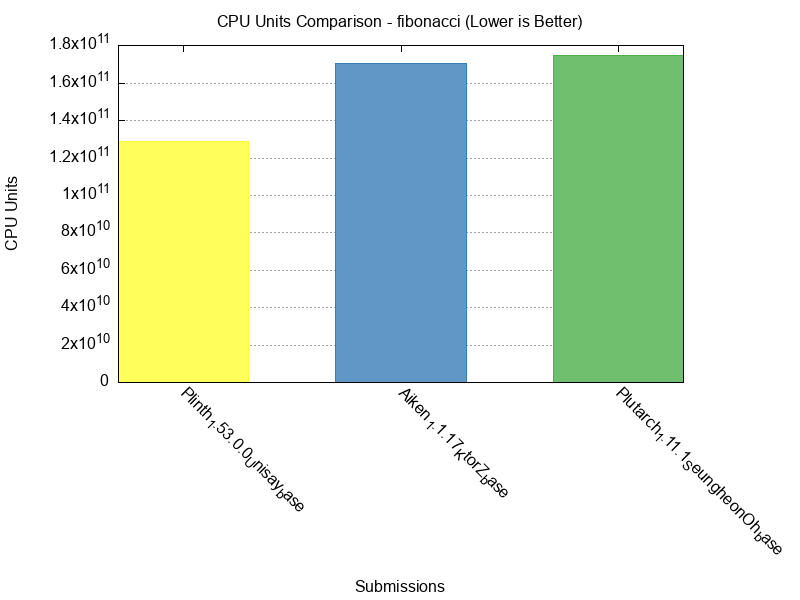
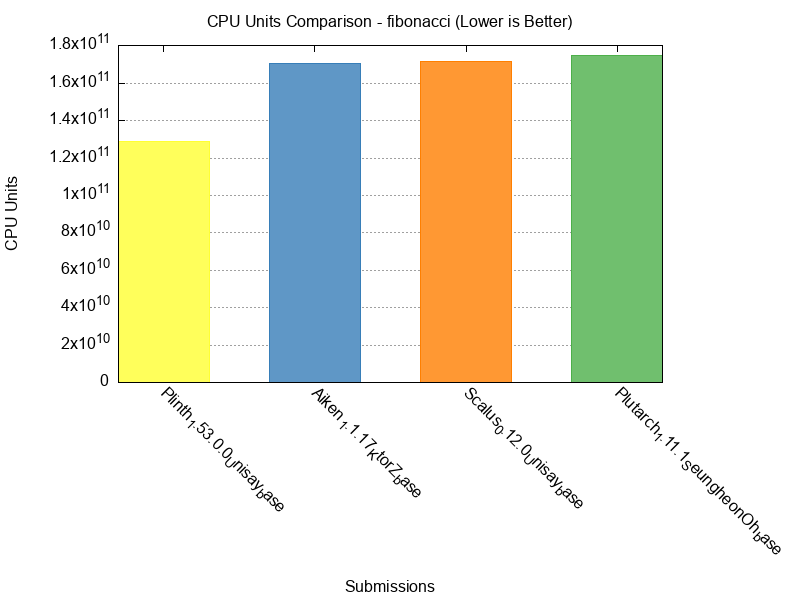
docs(reports): update report indices with Scalus submissions
Update HTML report indices to reflect the newly added Scalus submissions for the fibonacci benchmark. The base mode now shows 4 submissions (previously 3) and open mode shows 1 submission (previously 0).

Also update generation timestamps and cross-references across all report pages to maintain consistency.

diff --git a/report/base/index.html b/report/base/index.html
@@ -294,7 +294,7 @@
     
 
     <div class="timestamp">
-        Generated on: 2025-10-06 17:39:48 CEST
+        Generated on: 2025-10-07 15:24:50 CEST
     </div>
     
     <!-- Benchmark Summary Table -->
@@ -392,7 +392,7 @@
                     </div>
                     <div class="count">
                         
-                            (3 submissions)
+                            (5 submissions)
                         
                     </div>
                 </div>
@@ -441,13 +441,13 @@
                                 <td>2025-09-12</td>
                                 <td class="numeric">
                                     <span class="tooltip">
-                                        <span class="cpu-value best-value">129.09B</span>
+                                        <span class="cpu-value">129.09B</span>
                                         <span class="tooltiptext">129093086599</span>
                                     </span>
                                 </td>
                                 <td class="numeric">
                                     <span class="tooltip">
-                                        <span class="memory-value best-value">481.52M</span>
+                                        <span class="memory-value">481.52M</span>
                                         <span class="tooltiptext">481520743</span>
                                     </span>
                                 </td>
@@ -474,6 +474,48 @@
                                 </td>
                                 <td class="numeric script-value">47</td>
                                 <td class="numeric term-value">41</td>
+                            </tr>
+                            
+                            <tr data-cpu="171532323770" data-memory="685972690" data-script="77" data-term="77">
+                                <td>Scalus</td>
+                                <td>0.12.0</td>
+                                <td>Unisay</td>
+                                <td>2025-10-07</td>
+                                <td class="numeric">
+                                    <span class="tooltip">
+                                        <span class="cpu-value">171.53B</span>
+                                        <span class="tooltiptext">171532323770</span>
+                                    </span>
+                                </td>
+                                <td class="numeric">
+                                    <span class="tooltip">
+                                        <span class="memory-value">685.97M</span>
+                                        <span class="tooltiptext">685972690</span>
+                                    </span>
+                                </td>
+                                <td class="numeric script-value">77</td>
+                                <td class="numeric term-value">77</td>
+                            </tr>
+                            
+                            <tr data-cpu="81367848" data-memory="345184" data-script="98" data-term="101">
+                                <td>Scalus</td>
+                                <td>0.12.0</td>
+                                <td>Unisay</td>
+                                <td>2025-10-07</td>
+                                <td class="numeric">
+                                    <span class="tooltip">
+                                        <span class="cpu-value best-value">81.37M</span>
+                                        <span class="tooltiptext">81367848</span>
+                                    </span>
+                                </td>
+                                <td class="numeric">
+                                    <span class="tooltip">
+                                        <span class="memory-value best-value">345.18K</span>
+                                        <span class="tooltiptext">345184</span>
+                                    </span>
+                                </td>
+                                <td class="numeric script-value">98</td>
+                                <td class="numeric term-value">101</td>
                             </tr>
                             
                         </tbody>

diff --git a/report/open/index.html b/report/open/index.html
@@ -294,7 +294,7 @@
     
 
     <div class="timestamp">
-        Generated on: 2025-10-06 17:39:55 CEST
+        Generated on: 2025-10-07 15:25:02 CEST
     </div>
     
     <!-- Benchmark Summary Table -->
@@ -392,7 +392,7 @@
                     </div>
                     <div class="count">
                         
-                            (3 submissions)
+                            (5 submissions)
                         
                     </div>
                 </div>
@@ -441,13 +441,13 @@
                                 <td>2025-09-12</td>
                                 <td class="numeric">
                                     <span class="tooltip">
-                                        <span class="cpu-value best-value">129.09B</span>
+                                        <span class="cpu-value">129.09B</span>
                                         <span class="tooltiptext">129093086599</span>
                                     </span>
                                 </td>
                                 <td class="numeric">
                                     <span class="tooltip">
-                                        <span class="memory-value best-value">481.52M</span>
+                                        <span class="memory-value">481.52M</span>
                                         <span class="tooltiptext">481520743</span>
                                     </span>
                                 </td>
@@ -474,6 +474,48 @@
                                 </td>
                                 <td class="numeric script-value">47</td>
                                 <td class="numeric term-value">41</td>
+                            </tr>
+                            
+                            <tr data-cpu="171532323770" data-memory="685972690" data-script="77" data-term="77">
+                                <td>Scalus</td>
+                                <td>0.12.0</td>
+                                <td>Unisay</td>
+                                <td>2025-10-07</td>
+                                <td class="numeric">
+                                    <span class="tooltip">
+                                        <span class="cpu-value">171.53B</span>
+                                        <span class="tooltiptext">171532323770</span>
+                                    </span>
+                                </td>
+                                <td class="numeric">
+                                    <span class="tooltip">
+                                        <span class="memory-value">685.97M</span>
+                                        <span class="tooltiptext">685972690</span>
+                                    </span>
+                                </td>
+                                <td class="numeric script-value">77</td>
+                                <td class="numeric term-value">77</td>
+                            </tr>
+                            
+                            <tr data-cpu="81367848" data-memory="345184" data-script="98" data-term="101">
+                                <td>Scalus</td>
+                                <td>0.12.0</td>
+                                <td>Unisay</td>
+                                <td>2025-10-07</td>
+                                <td class="numeric">
+                                    <span class="tooltip">
+                                        <span class="cpu-value best-value">81.37M</span>
+                                        <span class="tooltiptext">81367848</span>
+                                    </span>
+                                </td>
+                                <td class="numeric">
+                                    <span class="tooltip">
+                                        <span class="memory-value best-value">345.18K</span>
+                                        <span class="tooltiptext">345184</span>
+                                    </span>
+                                </td>
+                                <td class="numeric script-value">98</td>
+                                <td class="numeric term-value">101</td>
                             </tr>
                             
                         </tbody>

diff --git a/report/base/benchmarks/fibonacci.html b/report/base/benchmarks/fibonacci.html
@@ -206,7 +206,7 @@
     </div>
 
     <div class="timestamp">
-        Generated on: 2025-10-06 17:39:47 CEST
+        Generated on: 2025-10-07 15:24:48 CEST
     </div>
     
     <div class="benchmark-section">
@@ -272,6 +272,18 @@
                     <td class="numeric">79</td>
                     <td><a href="https://github.com/IntersectMBO/UPLC-CAPE/blob/main/submissions/fibonacci/Aiken_1.1.17_KtorZ_base/source/README.md" target="_blank" rel="noopener">📁</a></td>
                     <td><a href="https://github.com/IntersectMBO/UPLC-CAPE/blob/main/submissions/fibonacci/Aiken_1.1.17_KtorZ_base/fibonacci.uplc" target="_blank" rel="noopener">🔗</a></td>
+                </tr>
+                <tr>
+                    <td>2025-10-07T13:01:09Z</td>
+                    <td>Scalus</td>
+                    <td>0.12.0</td>
+                    <td>Unisay</td>
+                    <td class="numeric">171532323770</td>
+                    <td class="numeric">685972690</td>
+                    <td class="numeric">77</td>
+                    <td class="numeric">77</td>
+                    <td><a href="https://github.com/IntersectMBO/UPLC-CAPE/blob/main/submissions/fibonacci/Scalus_0.12.0_Unisay_base/source/README.md" target="_blank" rel="noopener">📁</a></td>
+                    <td><a href="https://github.com/IntersectMBO/UPLC-CAPE/blob/main/submissions/fibonacci/Scalus_0.12.0_Unisay_base/fibonacci.uplc" target="_blank" rel="noopener">🔗</a></td>
                 </tr>
                 <tr>
                     <td>2025-09-12T16:36:28Z</td>

diff --git a/report/index.html b/report/index.html
@@ -221,7 +221,7 @@
     </div>
 
     <div class="timestamp">
-        Generated on: 2025-10-06 17:39:55 CEST
+        Generated on: 2025-10-07 15:25:02 CEST
     </div>
 
     <div class="mode-section">
@@ -297,11 +297,11 @@
                 <div class="benchmark-links">
                     <a href="base/benchmarks/fibonacci.html" class="benchmark-link base">
                         📊 Base Mode
-                        <span class="submission-count">3 submissions</span>
+                        <span class="submission-count">4 submissions</span>
                     </a>
                     <a href="open/benchmarks/fibonacci.html" class="benchmark-link open">
                         🚀 Open Mode
-                        <span class="submission-count">0 submissions</span>
+                        <span class="submission-count">1 submissions</span>
                     </a>
                 </div>
             </div>

diff --git a/report/base/benchmarks/factorial.html b/report/base/benchmarks/factorial.html
@@ -206,7 +206,7 @@
     </div>
 
     <div class="timestamp">
-        Generated on: 2025-10-06 17:39:44 CEST
+        Generated on: 2025-10-07 15:24:45 CEST
     </div>
     
     <div class="benchmark-section">

diff --git a/report/open/benchmarks/factorial.html b/report/open/benchmarks/factorial.html
@@ -206,7 +206,7 @@
     </div>
 
     <div class="timestamp">
-        Generated on: 2025-10-06 17:39:51 CEST
+        Generated on: 2025-10-07 15:24:54 CEST
     </div>
     
     <div class="benchmark-section">

diff --git a/report/open/benchmarks/two-party-escrow.html b/report/open/benchmarks/two-party-escrow.html
@@ -206,7 +206,7 @@
     </div>
 
     <div class="timestamp">
-        Generated on: 2025-10-06 17:39:54 CEST
+        Generated on: 2025-10-07 15:25:00 CEST
     </div>
     
     <div class="benchmark-section">
